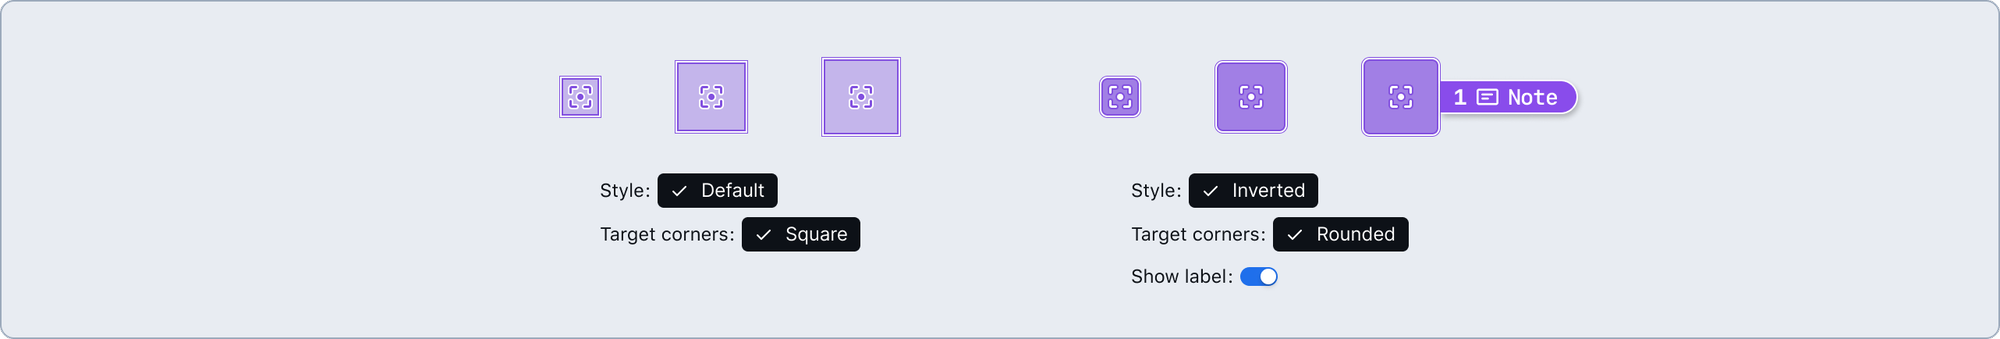
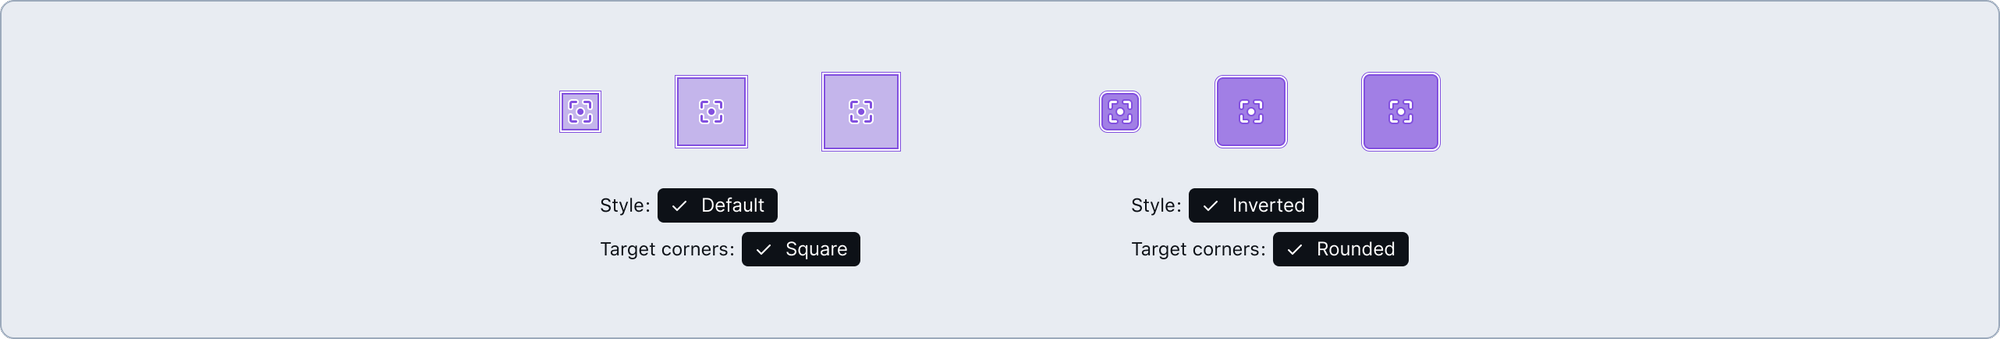
Update target area tutorial images

diff --git a/tutorials/user-interactions.md b/tutorials/user-interactions.md
@@ -127,7 +127,7 @@ Larger targets and enough space between them help people activate the intended c
 
 On mobile devices, fingers can obscure small targets, and movement or one-handed use can make precise tapping harder. Follow the platform's guidance for target size and spacing.
 
-<img src="Images/target-size-annotation.png" alt="Purple Interaction Target Area stamps in three sizes. On the left, the stamps use the Default style and square corners. On the right, the stamps use the Inverted style and rounded corners, and the largest stamp displays the optional 1 Note label." width="1012">
+<img src="Images/target-size-annotation.png" alt="Purple Interaction Target Area stamps in three sizes. On the left, the stamps use the Default style and square corners. On the right, the stamps use the Inverted style and rounded corners." width="1012">
 
 ### How to use
 
@@ -140,12 +140,12 @@ On mobile devices, fingers can obscure small targets, and movement or one-handed
 > [!NOTE]
 > If you resize the component manually, this overwrites the preset size variables, so choosing **Interaction target size** after this will have no effect. Resolve this by resetting the component size.
 
-<img src="Images/target-size-how-to-steps-1-2.png" alt="How to use steps 1 and 2 for Interaction Target Area. A semi-translucent purple target stamp with a full-screen icon overlays the Edit file button, and the right-side panel shows target size preset options." width="1012">
+<img src="Images/target-size-how-to-steps-1-2.png" alt="How to use steps 1 and 2 for Interaction Target Area. A semi-translucent purple target stamp with a full-screen icon overlays the Edit file button. The right-side panel shows the Default style, with Target corners set to Rounded and Target size preset set to 24px (WCAG minimum) under Appearance." width="1012">
 
 3. Select an **Interaction target corners** mode to match the target's rounded or square shape. Choose `Default` for light surfaces or `Inverted` for dark surfaces.
-4. Optionally, enable **Show label** to display the **Note** stamp label. This lets you add context in the margins using a **Note Details** annotation. If you prefer a shorter string, you can also change the stamp label itself (for example, to specify pixel dimensions).
+4. Optionally, place a separate [**UI Stamp**](basic-notes.md#ui-stamp) next to the target area. Use a text label for brief details such as pixel dimensions, or a circle with a number.
 
-<img src="Images/target-size-how-to-appearance-variables.png" alt="How to use steps 3 and 4 for Interaction Target Area. Show label is enabled, the paired Note stamp and Note Details annotation are visible, and the right-side panel shows label and note pairing controls." width="1012">
+<img src="Images/target-size-how-to-appearance-variables.png" alt="How to use steps 3 and 4 for Interaction Target Area. Two UI Stamps point to the target area: one above with a 24×24 text label, and one to the right with the number 1, which matches a Note Details annotation titled Target area. The right-side panel shows the selected UI Stamp with Label type set to number and Pointer set to pin." width="1012">
 
 The component's dimensions include space for the outline, so a 24 preset measures 26 × 26 in Figma.
 
